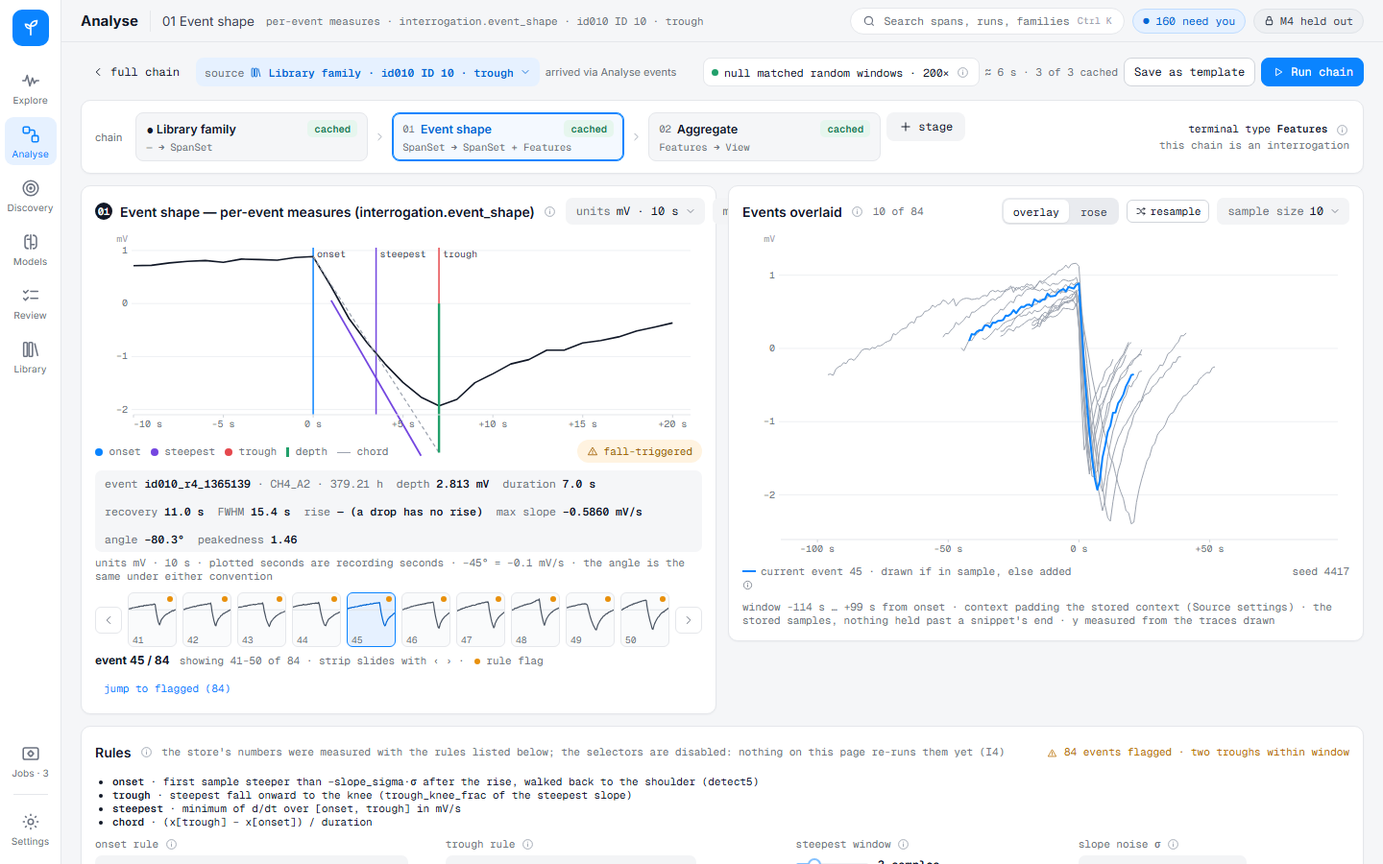
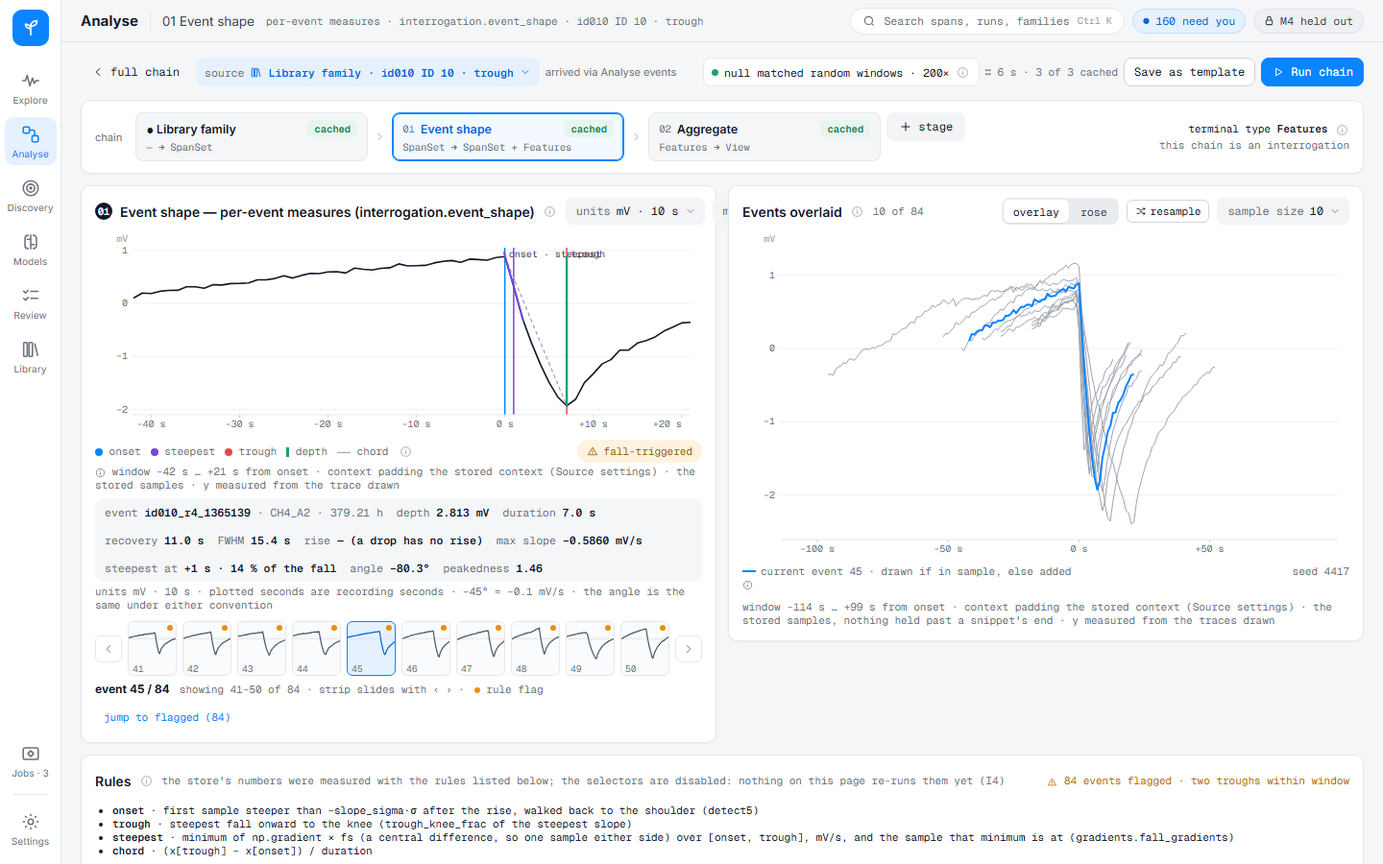
fixup-k: report, the gate, and I6 / the Round 5 Slope-figure row closed
Smoke 579 screenshots / 5 standing failures / 0 console errors; pytest -n 4
1878 passed, 13 skipped, 0 failed (baseline 1874 / 8 / 0). The tracked Slope
screenshots are the gate run's.

diff --git a/docs/prompts/fixup/reports/K-slope-anatomy-figure.md b/docs/prompts/fixup/reports/K-slope-anatomy-figure.md
@@ -1,0 +1,185 @@
+# Report — Fixup K: the Slope page's anatomy figure stops making its marks up
+
+Run 2026-10-02 on `main`, in the main checkout, alone on the machine. Commit prefix `fixup-k:`. The first commit,
+`d82413b`, touches only `tests/` and fails 4 tests under conda and 7 under `webui/.venv` (the position of the
+steepest sample did not exist anywhere, and the page's constants did). Every bridge ran in `--sandbox` on a private
+client build (`run_server.py --dist`, the `CLIENT = …` banner checked). Nothing wrote to the real
+`DATA/db/annotations.sqlite`; the evidence script reads the tracked seed store only.
+
+**What is true now, in one paragraph.** Every mark on the anatomy figure is the store's measurement, drawn at the
+sample it was measured at: the detector's `onset_idx` and `trough_idx`, the sample `gradients.fall_gradients` found
+steepest, and the snippet's own height at each of the three. The chord runs from the trace at the onset to the trace
+at the trough; the tangent touches the trace at the steepest sample at the measured slope; the depth line spans the
+two heights. `fixtures/interrogation.ts::eventMarks` is deleted, as are the three constants beside it in
+`SlopePage.tsx` (`-depth / 2`, `-depth`, a 0.012 mV "baseline band"). The figure's window follows Source settings ›
+context padding. A mark the store did not measure is not drawn and is named on the face of the card. The smoke gate
+measures the drawn marks against the payload in the browser.
+
+---
+
+## 1. Where each mark was drawn against where it is
+
+`scripts/fixup_k_evidence.py table` → `webui/screenshots/fixup/K/drawn-vs-measured.{json,md}`: for all 410 seed
+events, the position and height the page drew for each mark (reproduced from the deleted code) beside the store's.
+Six events, chosen before looking — the page's default event, a second from the default family, and the default
+event of one family per morphology and sampling regime:
+
+| event | morphology | fall s | steepest drawn at | steepest measured at | moved | steepest height drawn / measured mV | trough height drawn / measured mV | window drawn | stored context |
+|---|---|---|---|---|---|---|---|---|---|
+| id001_r1_1216093 | sharkfin | 135 | +67.5 s (50 %) | **+2.0 s (1 %)** | −65.5 s | −9.95 / 8.79 | −19.90 / −9.77 | −10 … +149 s | −647 … +366 s |
+| id001_r1_1234786 | sharkfin | 248 | +124.0 s (50 %) | **+0.0 s (0 %)** | −124.0 s | −22.19 / 46.34 | −44.38 / 1.95 | −10 … +262 s | −846 … +1735 s |
+| id010_r4_1365139 | trough | 7 | +3.5 s (50 %) | **+1.0 s (14 %)** | −2.5 s | −1.41 / 0.32 | −2.81 / −1.93 | −10 … +21 s | −42 … +21 s |
+| id024_r2_1459281 | sharkfin | 53 | +26.5 s (50 %) | **+1.0 s (2 %)** | −25.5 s | −5.01 / 7.54 | −10.02 / −1.65 | −10 … +67 s | −318 … +366 s |
+| id029_r1_895398 | sharkfin | 37 | +18.5 s (50 %) | **+1.0 s (3 %)** | −17.5 s | −6.38 / 9.42 | −12.75 / −1.85 | −10 … +51 s | −21 … +229 s |
+| id385_r385_2374 | trough | 6 | +3.0 s (50 %) | **+2.0 s (33 %)** | −1.0 s | −6.84 / −6.27 | −13.68 / −10.46 | −10 … +20 s | −36 … +41 s |
+
+**Over all 410 seed events** (every one has a fall between its marks; none lacks a steepest sample):
+
+| | |
+|---|---|
+| steepest sample, as a fraction of the fall | **median 0.05** [p10 0.00 – p90 0.25] |
+| … in the first quarter of the fall | **372 of 410** |
+| … within ±10 % of the half-way point the page drew | 18 of 410 |
+| … in the last quarter | 5 of 410 |
+| how far "steepest" moved | median 12 s, p90 62.5 s, max 148.5 s — **a median 45 % of the event's own fall** (p90 50 %) |
+| how far the steepest point's height moved | median 6.3 mV, p90 29.7 mV |
+| how far the trough end of the chord and the depth line moved | median 3.3 mV, p90 18.3 mV |
+| `fall_duration_s` equals (`trough_idx` − `onset_idx`) / fs | 410 of 410 — the trough marker's *x* was already right |
+
+**"Steepest" moved a long way, and in one direction.** These falls are front-loaded — a cliff, then a tail — so the
+steepest sample is in the first few and the page drew it in the middle of every event. By family the median fraction
+runs 0.00–0.20 with one exception (id026, two events, 0.51); the full per-family table is in `drawn-vs-measured.md`.
+Peakedness (steepest ÷ chord slope) was already printed on the same card as 4.77 for the default event: a number that
+says "front-loaded" beside a tangent drawn half-way down.
+
+**The heights were wrong for a different reason.** The page drew the trough at `−depth` and the steepest point at
+`−depth / 2`, which assumes the onset sits at 0 mV. The trace is the store's detrended snippet and the onset sits at
+a median |3.3| mV (p90 18.3 mV) — so the chord's far end and the depth line missed the trace by exactly that much
+(the default event: drawn to −19.90 mV, the trace is at −9.77 mV), and the tangent floated free of the curve.
+`before-anatomy-id385_r385_2374.png` shows it plainly: a tangent through the whole panel that touches nothing.
+
+Before/after of the figure on the same six events: `webui/screenshots/fixup/K/before-anatomy-*.png` /
+`after-anatomy-*.png` (the "before" set from a build of the client at `a1bd40b`).
+
+## 2. Which marks had no measurement, and what the figure does instead
+
+| mark | measured? | what the figure does |
+|---|---|---|
+| onset | yes — the detector's `onset_idx`; the figure's time zero | drawn |
+| trough | yes — the detector's `trough_idx` | drawn at (`trough_offset` − `onset_offset`) / fs |
+| steepest | **the value was, its position was not served anywhere** | now measured in the core (§4) and drawn there; "steepest at +2 s · 1 % of the fall" on the readout |
+| chord | yes — `mean_slope_mv_s`, between the two anchor samples | drawn between the snippet's own heights at those samples (a test pins that this *is* the served chord slope) |
+| tangent | yes — `max_slope_mv_s` | through the steepest sample at that slope |
+| depth | yes — `drop_depth_mv` | from the trace at the onset to the trace at the trough |
+| **baseline band** (the "all marks" option) | **no** — it was a constant 0.012 mV line; the store serves no noise band for an event | **not drawn**; "all marks" prints *"not drawn: baseline band · the store serves no noise band for an event, so there is none to draw"* on the card |
+
+On the seed store that is the only absence: all 410 events have every other mark. The figure is still written for
+the cases that do not occur here, because the Library import will change the source: no slope row → no marks and one
+line naming all five; a trough not after its onset → no trough, chord or depth; no steepest sample → no tangent; no
+stored snippet → an amber callout instead of a plot (never the fixture's synthetic curve). Each is counted on the
+card (`anatomy-absent`), never rendered at a plausible position.
+
+**The rule rides beside the mark.** An info icon in the mark legend ("Where the marks come from") lists the store's
+four rules verbatim from the payload and what the tangent's drawn length is. The `steepest` rule the route serves
+now says what was differentiated: *"minimum of np.gradient × fs (a central difference, so one sample either side)
+over [onset, trough], mV/s, and the sample that minimum is at"*.
+
+## 3. Is the padding setting honoured
+
+Yes. The figure draws `liveEventPoints(event, eventWindow(event, padding))` — the store's own samples inside the
+window Source settings › context padding selects, the same function the overlays use since `E` — and says so under
+the plot (*"window −647 s … +366 s from onset · context padding the stored context"*). The default is the stored
+context, so the default event now shows its 10-minute rise instead of ten seconds of it. Two smoke states set ± 60 s
+on the Source page, walk to block 1 in-app and read the window back (`fixup-k-padding-is-honoured`,
+`…-restored`).
+
+The trace is no longer resampled either: the old figure drew `curveOf`, a one-value-per-second interpolation of the
+snippet; it now draws the stored (decimated to ≤ 400) samples as they are.
+
+## 4. How big the wiring turned out to be
+
+One page's worth, as the prompt hoped, with one thing it did not anticipate: **the prompt says `gradients.py`
+"measures the max slope and where it occurs". It measured the value only.** The position existed in one place, a
+matplotlib figure (`Pipelines/drop_motifs/casestudy9.py:665`), which re-derives it. So the smallest honest change
+was in the core rather than a second derivative in the route:
+
+- `Working/Detection/drop_motifs/gradients.py::fall_gradients` returns `max_slope_idx` beside `max_slope_mv_s`
+  (+10 lines, additive). `None` when there is nothing to measure; the onset sample when there is no fall, which is
+  where the reported value comes from in that case.
+- `webui/server/interrogation_routes.py::family_slope` serves `steepest_offset`, `onset_mv`, `steepest_mv`,
+  `trough_mv`, `n_samples` per member (+13 lines). The heights are read on the full-resolution snippet because the
+  page holds a 400-point decimation.
+- Client: `EventAnatomy` on the member, filled in `api/interrogation.ts::memberFrom`; `SlopePage.tsx`'s geometry
+  block and its JSX rewritten (≈ 90 lines net).
+
+Not the `/shape` route: the anchors the prompt points at (`onset_offset`, `trough_offset`) are on `/slope`, which
+the page already fetched, and the slope the figure draws is the store's `max_slope_mv_s`, not the shape block's.
+
+No `NaN` reached a React attribute: every mark is either a finite number or not in the series list.
+
+## 5. Defaults taken
+
+| default | value | why |
+|---|---|---|
+| where the steepest position is computed | the core, in `fall_gradients` | position and value are one measurement; a second `np.gradient` in the route could drift from it |
+| tangent length | up to 16 % of the fall either side, at least one sample | the reach the researcher's own anatomy figure uses (`casestudy9.py:689`); the slope itself is a ±1-sample difference and would be invisible at that length |
+| tangent at the plot edge | each end cut short (never bent) where it would leave the trace's y range | keeps the y domain measured from the trace alone (the one plot-domain rule); on a sharkfin the steepest sample is at the top of the trace |
+| marker labels closer than 8 % of the window | share one label at the first (`onset · steepest`) | steepest is 0–2 s from the onset on a 1000 s axis; two labels printed on top of each other are unreadable. The lines are still drawn where they are |
+| "all marks" | kept as an option; adds the not-drawn line | removing the option is `H`'s call |
+| heights | the full-resolution snippet's samples | a mark can stand a pixel off a heavily decimated line; the info icon says so when the trace is decimated |
+
+## 6. Items left
+
+1. **The figure's trace is the route's ≤ 400-point decimation.** On the longest stored contexts (up to 46 min at
+   1 Hz) that is one point in seven, taken by stride — a one-sample feature can be missed, and Round 7 Q12 decided
+   on a min/max envelope. That is `H`'s idiom, and the marks are immune to it (they are read at full resolution).
+2. **The strip thumbnails and the sampled overlay keep a fixture fallback** (`curveOf` / `overlayPoints` →
+   `eventCurve`, a synthetic curve, when a member has no snippet). It cannot fire on the seed store — the slope
+   route would fail first — but it is the same class of thing on `E`'s cards, not the anatomy figure, so I left it.
+   The anatomy figure itself has no such fallback any more.
+3. **`interrogation/Rose.tsx` and the figure's visual language** — untouched, as instructed; `H`'s.
+4. **The rule selectors** remain disabled previews (`E`, I4). The "steepest window" slider no longer changes the
+   tangent's drawn length, which was its only effect on a live family and was not the rule the slope is measured by.
+5. **`casestudy9.py` still re-derives the steepest index** rather than reading `max_slope_idx`. One line; a thesis
+   figure script outside this prompt.
+
+## 7. Out-of-scope files touched
+
+- `Working/Detection/drop_motifs/gradients.py` — core, +10 lines, additive (§4). Its other callers
+  (`event_shape.py`, `casestudy9.py`, the aggregate route) read named keys; `event_shape.measure_event` spreads the dict
+  into a row whose frame is built from an explicit column list, so nothing new is stored.
+- `webui/client/src/api.ts` — the `SlopeMember` type gained the served fields (one line).
+- `webui/client/src/fixtures/interrogation.ts` — `EventAnatomy`, `InterrogationMember.anatomy`, `snippet.n`;
+  `eventMarks` deleted. The type is the member's home, as in `E`.
+- `webui/smoke.py` — the `anatomy_marks` check and a `hash` action (an in-app walk without a reload), append-only.
+- `scripts/fixup_k_evidence.py` — the evidence, dev tooling.
+- `tests/test_drop_motifs_gradients.py` — two tests appended.
+- **Not** touched: `kit/plots.tsx`, `charts/*`, `interrogation/Rose.tsx`, any other page.
+
+## 8. The gate
+
+| gate | result |
+|---|---|
+| `npx tsc -b`, `npm run build` | clean. The gate bridge served a private build (`npx vite build --outDir …`, `CLIENT = …scratchpad\\dist-k (a private build, not the shared client/dist)` in the banner); the shared `webui/client/dist` was then rebuilt from the same sources so the next `start.ps1` shows the fix |
+| `webui/smoke.py`, full, against a `--sandbox` bridge started immediately beforehand on port 8765, alone on the machine, `SMOKE_SHOTS` in the scratchpad | **579 screenshots, 5 failures, 0 browser console/page errors, 0 unexpected server tracebacks.** The five are the standing ones the prompt names: the four Settings registration `Locator.click` timeouts and `discovery.runs--default`. All **55** Interrogation states pass (49 + 6 new), including `fixup-d-sequence-rose`, which did not flake on this run. The five states carrying `anatomy_marks` each report *"steepest drawn at 1 % [14 % on id010] of the fall, as served · tangent through it at the served slope"* |
+| `pytest -n 4` (conda), after smoke had finished — never together | **1878 passed, 13 skipped, 0 failed** (3 m 45 s) against the 1874 / 8 / 0 baseline: +4 passed (two gradient tests, two client pins), +5 skipped (the route tests, which need FastAPI). The failure set is empty |
+| `tests/test_webui_*.py` under `webui/.venv` | **304 passed, 1 failed, 3 xpassed**: `test_webui_discovery.py::test_the_scoreboard_cells_are_the_tables_own_numbers`, the standing failure the prompt names. All 7 of `test_webui_slope_anatomy.py` pass |
+
+The tracked Slope-page screenshots under `webui/screenshots/pages/interrogation/` are this gate run's (14 regenerated,
+6 new); the rest of the tracked set is untouched.
+
+**What the smoke check does and does not prove.** It fetches the slope payload inside the page and compares pixels:
+the steepest marker divides onset → trough in the served ratio (±1.5 px), the chord runs marker to marker, and the
+tangent's pixel slope stands to the chord's as `max_slope_mv_s` stands to `mean_slope_mv_s`. It is scale-free, so it
+needs no axis read back from the DOM. It does not check the marks' heights against the payload independently of the
+chord, and it was not run against the old client as a negative control (the old page has no `anatomy-figure`
+wrapper, so it would fail on that rather than on the measurement).
+
+## 9. In short
+
+The anatomy figure drew "steepest" at half the fall on every event; measured, it is a median 5 % of the way in, and
+in the first quarter on 372 of 410. The chord and depth line missed the trace by the onset's own level and the
+tangent touched nothing. All of it is now the store's measurement, drawn at the sample it was measured at, inside
+the window the padding setting selects; the one mark with no measurement behind it (the baseline band) is not drawn
+and the card says so. The position of the steepest sample was not served anywhere — it is now returned by the core
+beside the value. The smoke gate checks the drawn marks against the payload in pixels.

diff --git a/docs/prompts/fixup/03-analyse-interrogation.md b/docs/prompts/fixup/03-analyse-interrogation.md
@@ -10,7 +10,7 @@
 | I2 | **[DECIDED (Q-I1) and BUILT — fixup-d. `motif_features`, keyed by content hash beside the Library rows (`LIBRARY_STORAGE.md` §3.4 amendment); filled by `scripts/fixup_d_backfill_features.py` from the store snippet the hash was taken over, from the detector's own anchors, carrying the detector's `drop_depth_mv`. Run on the sandbox copy: 3,599 entries measured, 4 annotation entries skipped with their reason. The real database is filled by the researcher, deliberately (`--real`).]** **Each motif should store its own width, amplitude, recovery.** Library §4.4 rejects measured features on Library rows outright and the four feature-bin bases are computed on demand. That decision and I1 are in direct tension: the user is asking for exactly the stored measurements the spec refuses. This is a spec decision, not a bug. | user; wiring `reports/03-library.md` §8.6 |
 | I3 | **[FIXED — fixup-d. `interrogation.intervals` (SpanSet → SpanSet): the interval before and after every event, per group and never pooled, and each group's median / CV (ddof=1) / R² trend / drift ratio — `sequences11`'s regularity gate. The three interval implementations (`store11`, `clusterk1`, the aggregate route) now import the one in `Working/interrogation/intervals.py`. `spike_analysis.compute_spike_statistics` stays a stub; nothing calls it.]** **Inter-event intervals** (the researcher's "inter-spike", Q12). `spike_analysis.compute_spike_statistics` is a stub whose body is a comment; wiring's recommendation was "ignore for v1 — the aggregate route covers the intent". The user has since named ISIs directly, which changes that call. | user; wiring `reports/01-analyse-blocks.md` unfinished-algorithms table |
 | I4 | **[CLOSED — fixup-e. The four selectors are disabled with the reason on a live family (the seed store's rules are fixed; nothing re-runs them yet) and the rules the numbers were measured with stay printed verbatim beside them. A selector that changed a caption and nothing else claimed otherwise; a real re-run is a later prompt's.]** **The slope page's selectors are a preview, not the rule.** The rules card lists the store's rules verbatim and says so, but the selectors beside them do not drive anything. | wiring `reports/01-analyse-blocks.md` critics |
-| I6 | **The Slope page's anatomy figure still draws its marks from fixtures over a real trace.** `fixtures/interrogation.ts::eventMarks` supplies the chord, the tangent and the "steepest" marker (steepest = duration / 2, a constant), drawn over the event's genuine samples, and the figure opens 10 s before the onset whatever the padding setting says. **This is the same class as the fabrication `E` just removed from the Aggregate page — a constant dressed as a measurement — except on a figure rather than in a number, which makes it harder to catch.** The max slope and its position are measured by `gradients.py` and stored; the figure should draw those. | `E` §8.2; prompt `H` owns it, and it is the exemplar case for "a block must show its work" |
+| I6 | **[CLOSED — fixup-k, 2026-10-02, `reports/K-slope-anatomy-figure.md`: every mark is the store's — the detector's onset and trough samples, the sample `gradients.fall_gradients` found steepest (`max_slope_idx`, new, served as `steepest_offset`), and the snippet's own height at each. `eventMarks` is deleted, the window follows Source settings › context padding, a mark the store did not measure is not drawn and is named on the card, and smoke measures the drawn marks against the payload. On the 410 seed events the steepest sample is a median 5 % into the fall, not 50 %; 372 are in the first quarter.]** **The Slope page's anatomy figure still draws its marks from fixtures over a real trace.** `fixtures/interrogation.ts::eventMarks` supplies the chord, the tangent and the "steepest" marker (steepest = duration / 2, a constant), drawn over the event's genuine samples, and the figure opens 10 s before the onset whatever the padding setting says. **This is the same class as the fabrication `E` just removed from the Aggregate page — a constant dressed as a measurement — except on a figure rather than in a number, which makes it harder to catch.** The max slope and its position are measured by `gradients.py` and stored; the figure should draw those. | `E` §8.2; prompt `H` owns it, and it is the exemplar case for "a block must show its work" |
 | I7 | **The Aggregate page's null is labelled "matched random windows · 200×" and is a seeded jitter of the data.** The null β is honestly recomputed from the points drawn now; the points themselves are not 200 matched windows. The last unearned claim on the page. | `E` §8.1; `QUESTIONS.md` Q27 |
 | I8 | **Per-recording trend (`TIMELINE_TREND`) is keyed by fixture recording names**, so a live recording prints "n N · no trend test" — honest and useless. A Kendall τ from the core is a two-line route. | `E` §8.3 |
 | I5 | **Interrogation is marked "seed"** — it reads the drop-motif seed store, not the Library's motif tables, so it cannot interrogate anything imported after the seed bundle. | wiring `reports/01-analyse-blocks.md` |

diff --git a/docs/prompts/fixup/README.md b/docs/prompts/fixup/README.md
@@ -13,8 +13,8 @@ being either a bug or a spec change.
 ## Where the stage is, 2026-10-02
 
 **Waves 1 and 2 are done.** `E` + `G` ran in parallel on 2026-09-30 and `F` + `J` on 2026-10-01,
-all four clean, each closing every row it was given. **Wave 3 is written and ready: `K` (small,
-first), then `H` alone.** `H` came out of the Round 7 grilling (`QUESTIONS.md`), which produced the
+all four clean, each closing every row it was given. **Wave 3: `K` ran 2026-10-02 and is
+reported; `H` is ready and runs alone.** `H` came out of the Round 7 grilling (`QUESTIONS.md`), which produced the
 standard it implements and corrected two of my own recommendations by measurement.
 
 **Everything that grilling found and could not scope is written down** in `future/` — seven stubs,
@@ -29,8 +29,8 @@ each had the other's tests in flight). `pytest -n auto`, conda, 5 m 45 s.
 | **WAVE 2 — run and reported 2026-10-01** | |
 | `F-datasets-and-naming.md` | **run and reported 2026-10-01** (`reports/F-datasets-and-naming.md`). Closes `10` S1, `00` X4, U5, Q23's build and the Round 5 channel-label row. One-based channel names won. Found in passing: the four standing Settings registration smoke failures name candidates that have since been registered (report §7). *As written:* A `datasets` table keyed by `source_file`; the editable columns Q23 names; the display name replaces the file name across the site through one seam; the `CH2`/`CH3` convention settled; the Settings channel-tab overflow (U5). Port **8765** |
 | `J-dehshibi-vs-the-paper.md` | **run and reported 2026-10-01** (`reports/J-…`). The detector diverged from the paper in four places and the paper diverges from its authors' code; the blocks are now a port of that code, checked against MATLAB. 17 of 20 known synthetic events found; on M2_aug CH0 it is faithful and unselective (Q34). *Was:* **scaffold — attach the paper.** Opens with its own grilling round before any code. Two implementations of the detector exist and nothing asserts they agree; 87 % of cells on a real span are honestly marked uncovered and that is the thread to pull (U6). Port **8766** |
-| **WAVE 3 — `K` first, then `H` alone** | |
-| `K-slope-anatomy-figure.md` | **ready, runs first.** Small: the Slope page's anatomy figure draws its chord, tangent and "steepest" marker from `fixtures/interrogation.ts::eventMarks` over a real trace ("steepest" is `duration / 2`). The same lie `E` removed from the numbers, surviving on the figure beside them. `D` measured the real values and `E` built the route that serves them |
+| **WAVE 3 — `K` done, `H` next and alone** | |
+| `K-slope-anatomy-figure.md` | **run and reported 2026-10-02** (`reports/K-slope-anatomy-figure.md`). The figure draws the store's own marks inside the context-padding window; `eventMarks` is deleted; `gradients.fall_gradients` now returns the sample its steepest slope was measured at and the slope route serves it. **Measured: the steepest sample is a median 5 % into the fall on the 410 seed events (372 in the first quarter), and it was drawn at 50 % on every one.** Smoke gains an `anatomy_marks` check and six Slope states. *As written:* Small: the Slope page's anatomy figure draws its chord, tangent and "steepest" marker from `fixtures/interrogation.ts::eventMarks` over a real trace ("steepest" is `duration / 2`). The same lie `E` removed from the numbers, surviving on the figure beside them. `D` measured the real values and `E` built the route that serves them |
 | `H-blocks-show-their-work.md` | **ready.** U7/U8/U9 + Q27. **Seven type views and twelve input-driven modifiers**, so all 36 blocks — and future ones — are drawn from their type signature; today 31 of 36 fall through to a view captioned *"this signature has no bespoke process view yet"*. Two tiers (chain thumbnail / settings page, one component, interaction as a flag), the span slideshow wired to real data with the impurity flag, the two fabricated nulls deleted. Enforced by a test and by a rule-9 check in the smoke gate. Cross-cutting; **runs alone** |
 | **DONE** | |
 | `E-aggregate-stops-fabricating.md` | **run and reported 2026-09-30** (`reports/E-…`). Interrogation reads every measure from the core — the three constants (`×0.84`, `×0.31`, `×4.2`) and the browser's recovery are gone, and not-measured is null, counted and explained. `spike-shape` → `event-shape` = `interrogation.event_shape`, a block that really differs, the upstream carried on every walk. `rise_time_frac` on the shape block, null for a drop. The overlays draw the stored context on a measured y. **Found: 41 % of the seed store and 34 % of the Library have no recovery and no FWHM under the current definition — all of it sharkfin morphology (Q26)** |

diff --git a/docs/prompts/fixup/QUESTIONS.md b/docs/prompts/fixup/QUESTIONS.md
@@ -698,7 +698,7 @@ Two things follow for every future parallel wave, and both prompts in wave 2 car
 
 | item | from | owner |
 |---|---|---|
-| **The Slope page's anatomy figure still draws its chord, tangent and "steepest" marker from `fixtures/interrogation.ts::eventMarks`** (steepest = duration / 2) over a real trace, and opens 10 s before the onset whatever the padding says. **The same class as the fabrication `E` just removed, on a figure instead of a number** | `E` §8.2 | **`H`** — and it is the exemplar case for "a block must show its work" |
+| **[CLOSED — fixup-k, 2026-10-02, `reports/K-slope-anatomy-figure.md`: every mark is the store's — the detector's onset and trough samples, the sample `gradients.fall_gradients` found steepest (`max_slope_idx`, new, served as `steepest_offset`), and the snippet's own height at each. `eventMarks` is deleted, the window follows Source settings › context padding, a mark the store did not measure is not drawn and is named on the card, and smoke measures the drawn marks against the payload. On the 410 seed events the steepest sample is a median 5 % into the fall, not 50 %; 372 are in the first quarter.]** **The Slope page's anatomy figure still draws its chord, tangent and "steepest" marker from `fixtures/interrogation.ts::eventMarks`** (steepest = duration / 2) over a real trace, and opens 10 s before the onset whatever the padding says. **The same class as the fabrication `E` just removed, on a figure instead of a number** | `E` §8.2 | ~~`H`~~ → **`K`**, done. `H` still owns the figure's visual language |
 | The Shape card's medoid overlay is index-stretched across the candidate's duration (unchanged semantics; a medoid carrying its own `t` would now be honoured) | `G` §11 | `H` |
 | **[CLOSED — fixup-f, 2026-10-01: one-based won, through `channel_name`. The M2 electrode names are already one-based, saved Discovery sessions store channel names, and Explore and Review already printed it; Settings › Datasets, the import modal, the scoreboard and Interrogation no longer print the raw index, and the stored index and file (`recordings.channel = 2 · CH2.npy`) are shown beside the name. `reports/F-datasets-and-naming.md` §4.]** **`channel_name` says `CH3` for `recordings.channel = 2`** (`Working/discovery/channels.py:30`, `CH{channel+1}`) and Settings › Datasets prints the raw index as `CH2`. One convention must win | `G` §10 | **`F`** — it owns Settings › Datasets |
 | Coherence `r` in the other-channels popover is still not computed — it now says so instead of throwing a TypeError on a `null` | `G` §11 | `07-review.md`, the Review *behaviour* prompt |
@@ -1033,7 +1033,7 @@ trough **42 s / 43 s** (roughly symmetric). That asymmetry is evidence the morph
 | prompt | what |
 |---|---|
 | `H-blocks-show-their-work.md` | **written, ready** — the standard and the views |
-| `K-slope-anatomy-figure.md` | **written, ready, runs first** — Q8: the Slope page's fabricated anatomy figure |
+| `K-slope-anatomy-figure.md` | **run and reported 2026-10-02** (`reports/K-slope-anatomy-figure.md`) — Q8: the Slope page's fabricated anatomy figure |
 | `N-event-extent.md` | stub — redefine extent + re-hash the Library (Q17) |
 | `R-interrogation-null.md` | stub — build P10 properly (Q27) |
 | `P-persist-recovery-index.md` | stub — `recovery_idx` is computed and discarded |
